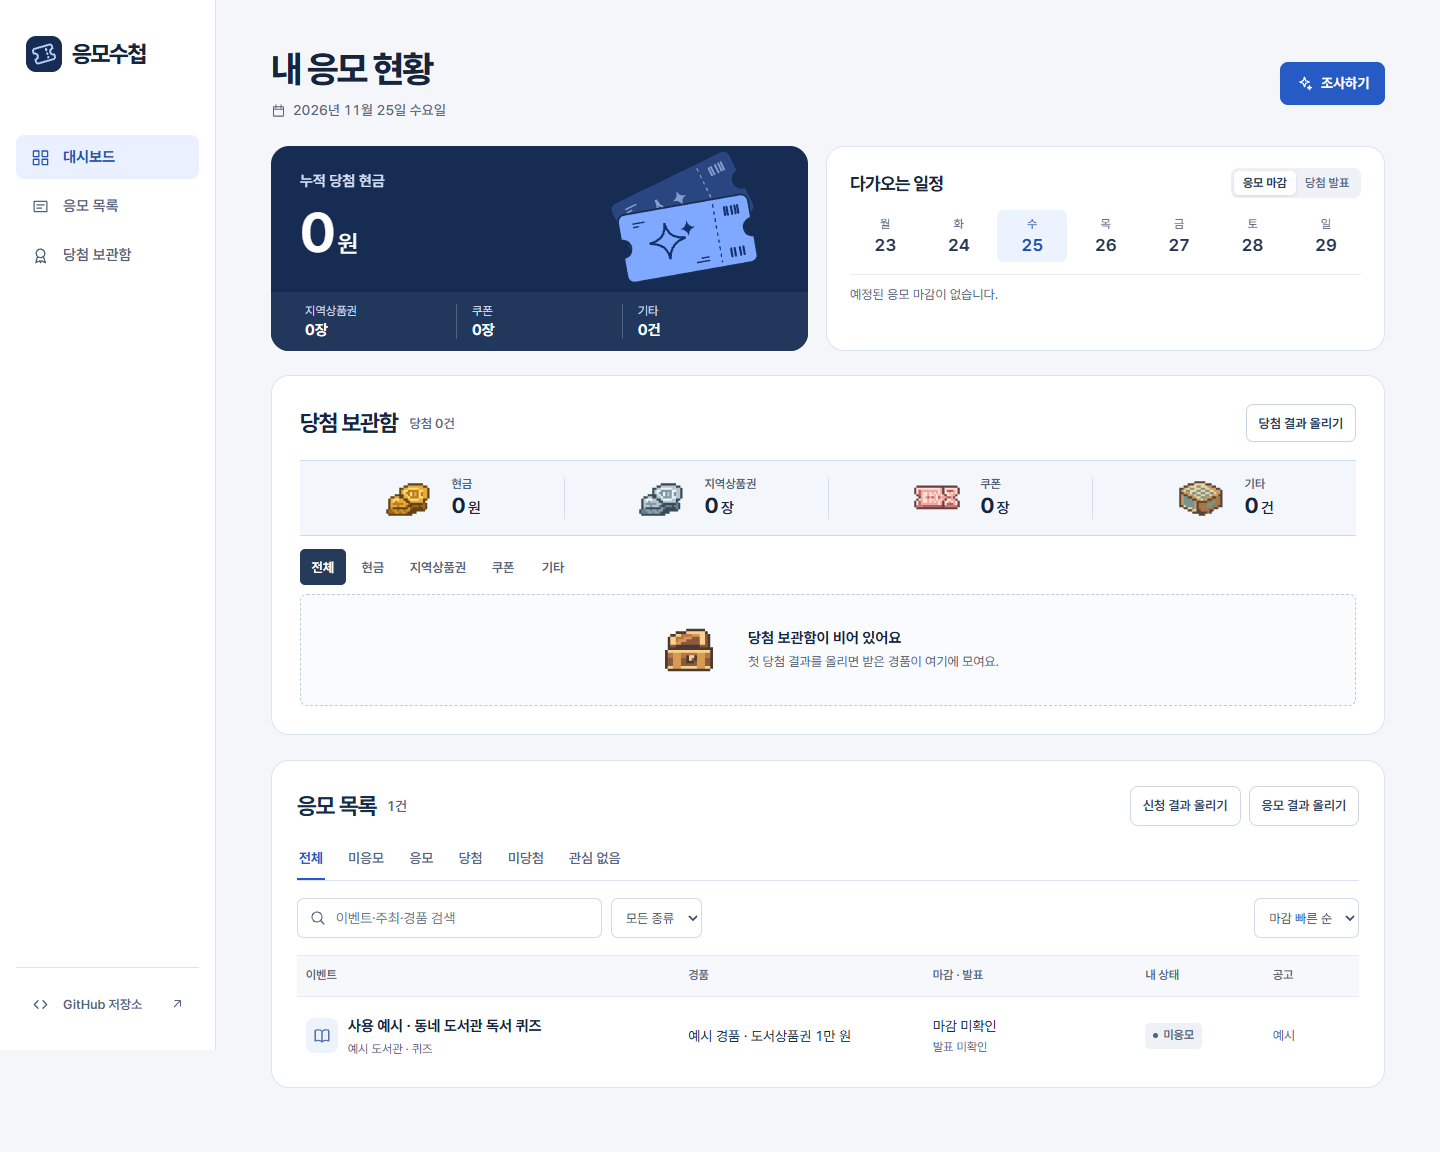
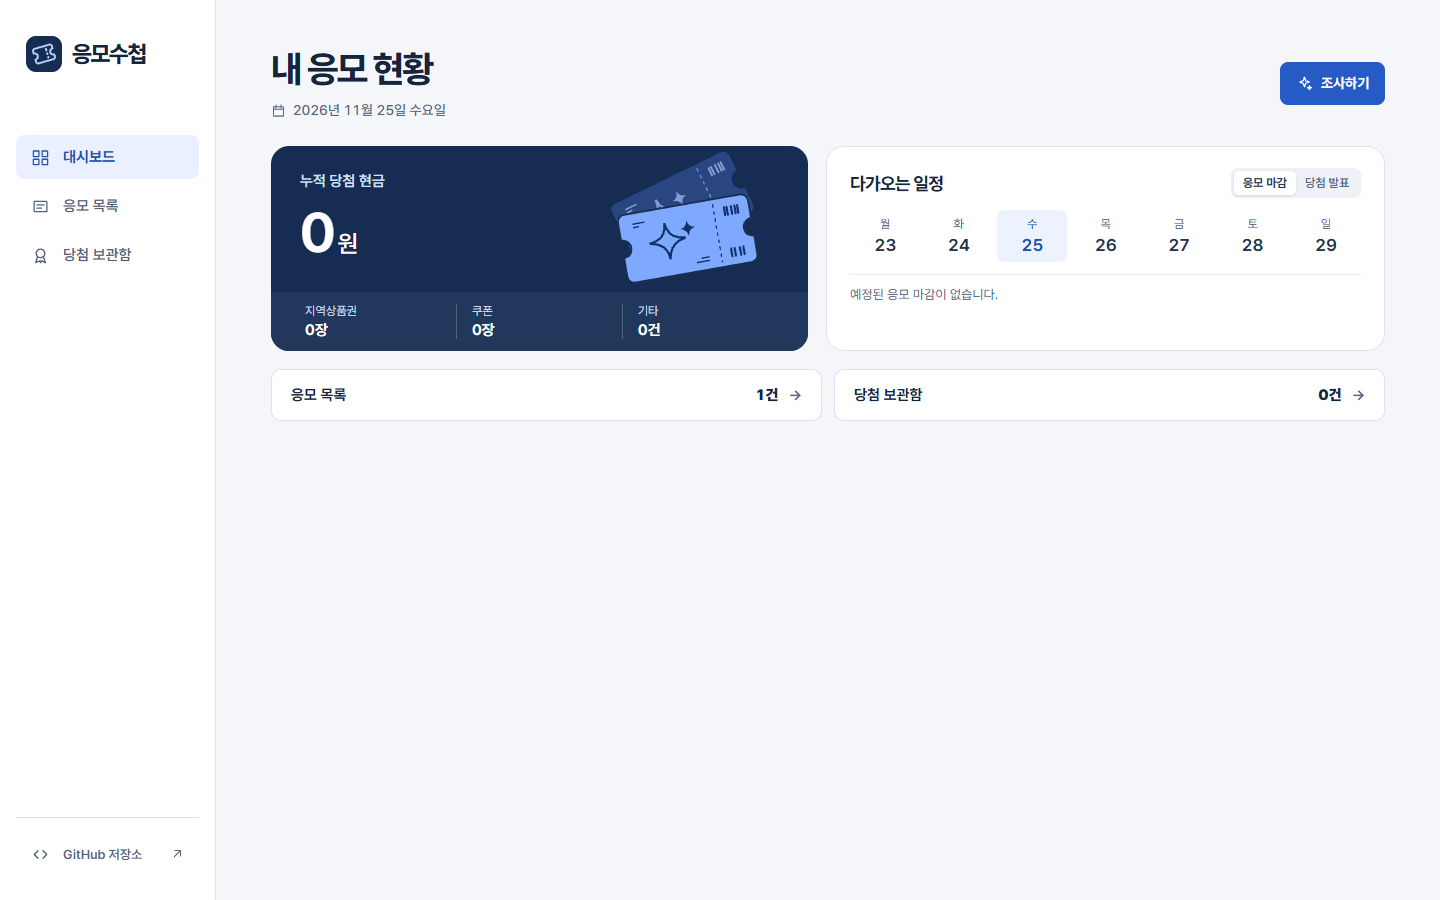
Show distinct dashboard, ledger and prize inventory views

diff --git a/web/index.html b/web/index.html
@@ -34,9 +34,9 @@
 <div class="shell">
   <aside class="sidebar" aria-label="메뉴">
     <a class="brand" href="#top" aria-label="응모수첩 홈"><span class="brand-mark"><svg aria-hidden="true" class="icon " viewBox="0 0 24 24"><use href="#icon-ticket"></use></svg></span>응모수첩</a>
-    <nav class="side-nav">
-      <a href="#top" class="current" aria-current="location"><svg aria-hidden="true" class="icon " viewBox="0 0 24 24"><use href="#icon-layout"></use></svg>대시보드</a>
-      <a href="#ledger" data-view="전체"><svg aria-hidden="true" class="icon " viewBox="0 0 24 24"><use href="#icon-list"></use></svg>응모 목록</a>
+    <nav class="side-nav" aria-label="주 화면">
+      <a href="#top" class="current" aria-current="page"><svg aria-hidden="true" class="icon " viewBox="0 0 24 24"><use href="#icon-layout"></use></svg>대시보드</a>
+      <a href="#ledger"><svg aria-hidden="true" class="icon " viewBox="0 0 24 24"><use href="#icon-list"></use></svg>응모 목록</a>
       <a href="#inventory"><svg aria-hidden="true" class="icon " viewBox="0 0 24 24"><use href="#icon-award"></use></svg>당첨 보관함</a>
     </nav>
     <div class="utilities">
@@ -44,10 +44,10 @@
     </div>
   </aside>
   <main id="top">
-    <header class="page-head"><div><h1>내 응모 현황</h1><div class="today"><svg aria-hidden="true" class="icon " viewBox="0 0 24 24"><use href="#icon-calendar"></use></svg><time id="today"></time></div></div>
+    <header class="page-head"><div><h1 id="page-title" tabindex="-1">내 응모 현황</h1><div class="today"><svg aria-hidden="true" class="icon " viewBox="0 0 24 24"><use href="#icon-calendar"></use></svg><time id="today"></time></div></div>
       <button type="button" class="action-primary" data-research aria-haspopup="dialog"><svg aria-hidden="true" class="icon " viewBox="0 0 24 24"><use href="#icon-spark"></use></svg>조사하기</button>
     </header>
-    <div class="summary">
+    <div data-page="top" data-title="내 응모 현황"><div class="summary">
       <section class="balance" aria-labelledby="balance-label">
         <div class="balance-body">
           <svg class="ticket-art" aria-hidden="true" width="230" height="175" viewBox="0 0 230 175">
@@ -90,9 +90,13 @@
         <div id="schedule" class="schedule"></div>
       </section>
     </div>
-    <section id="inventory" aria-label="당첨 보관함"></section>
-    <section id="ledger" class="ledger" aria-labelledby="list-title">
-      <div class="list-heading ledger-head"><h2 id="list-title">응모 목록 <small id="item-count"></small></h2><div class="record-actions">
+    <div class="dashboard-links">
+      <a href="#ledger"><span>응모 목록</span><strong id="dashboard-events">—</strong><span aria-hidden="true">→</span></a>
+      <a href="#inventory"><span>당첨 보관함</span><strong id="dashboard-wins">—</strong><span aria-hidden="true">→</span></a>
+    </div></div>
+    <section id="inventory" aria-label="당첨 보관함" data-page="inventory" data-title="당첨 보관함" hidden></section>
+    <section id="ledger" class="ledger" aria-labelledby="list-title" data-page="ledger" data-title="응모 목록" hidden>
+      <div class="list-heading ledger-head"><h2 id="list-title">이벤트 <small id="item-count"></small></h2><div class="record-actions">
         <button type="button" class="import-button" data-records="applications" aria-haspopup="dialog">신청 결과 올리기</button>
         <button type="button" class="import-button" data-records="results" aria-haspopup="dialog">응모 결과 올리기</button>
       </div></div>

diff --git a/web/app.js b/web/app.js
@@ -110,6 +110,8 @@ function renderSchedule() {
 }
 function renderSummary() {
   const won = state.items.filter(item => statusOf(item) === '당첨');
+  el('dashboard-events').textContent = formatMoney.format(state.items.filter(item => statusOf(item) !== '관심 없음').length) + '건';
+  el('dashboard-wins').textContent = formatMoney.format(won.length) + '건';
   const cash = won.reduce((sum, entry) => sum + Number(entry.award_cash || 0), 0);
   const counts = {'지역상품권':0, '쿠폰':0, '기타':0};
   let unclassified = 0;
@@ -204,16 +206,25 @@ function renderRows() {
     } else openResearch();
   };
 }
-function selectTab(value, section = 'ledger') {
+function selectTab(value) {
   tab = value;
   document.querySelectorAll('#status-tabs button').forEach(button => button.setAttribute('aria-pressed', String(button.dataset.tab === tab)));
+  renderRows();
+}
+function showPage(focusHeading = false) {
+  const panes = [...document.querySelectorAll('main > [data-page]')];
+  const active = panes.find(pane => pane.dataset.page === location.hash.slice(1)) || panes[0];
+  for (const pane of panes) pane.hidden = pane !== active;
   document.querySelectorAll('.side-nav a').forEach(anchor => {
-    const current = anchor.hash === '#' + section;
+    const current = anchor.hash.slice(1) === active.dataset.page;
     anchor.classList.toggle('current', current);
-    if (current) anchor.setAttribute('aria-current', 'location');
+    if (current) anchor.setAttribute('aria-current', 'page');
     else anchor.removeAttribute('aria-current');
   });
-  renderRows();
+  el('page-title').textContent = active.dataset.title;
+  document.title = active.dataset.title + ' · 응모수첩';
+  if (focusHeading) el('page-title').focus({preventScroll:true});
+  window.scrollTo({top:0, behavior:'instant'});
 }
 function addFact(key, value) {
   if (!value) return;
@@ -460,11 +471,16 @@ el('add-voucher').addEventListener('click', () => addVoucherRow().focus());
 for (const button of document.querySelectorAll('[data-records]')) {
   button.addEventListener('click', () => window.GiveawayRecords.open(button.dataset.records));
 }
-document.querySelectorAll('.brand, .side-nav a').forEach(anchor => anchor.addEventListener('click', () => {
-  el('search').value = '';
-  el('category').value = '';
-  selectTab(anchor.dataset.view || '전체', anchor.hash.slice(1));
-}));
+for (const anchor of document.querySelectorAll('.brand, .side-nav a, .dashboard-links a')) {
+  anchor.addEventListener('click', event => {
+    if (event.button !== 0 || event.altKey || event.ctrlKey || event.metaKey || event.shiftKey) return;
+    event.preventDefault();
+    if (location.hash !== anchor.hash) history.pushState(null, '', anchor.hash);
+    showPage(true);
+  });
+}
+window.addEventListener('hashchange', () => showPage(true));
+showPage();
 document.addEventListener('visibilitychange', () => {
   if (!document.hidden && !document.querySelector('dialog[open]')) refresh();
 });

diff --git a/web/app.css b/web/app.css
@@ -109,6 +109,12 @@ h1 { font-size: clamp(29px,2.55vw,40px); font-weight: 755; line-height: 1.18; le
   .record-actions { gap: 5px; }
 }
 .summary { display: grid; grid-template-columns: minmax(0,.98fr) minmax(0,1.02fr); gap: 18px; align-items: stretch; }
+.dashboard-links { display:grid; grid-template-columns:repeat(auto-fit,minmax(min(210px,100%),1fr)); gap:12px; margin-top:18px; }
+.dashboard-links a { display:flex; align-items:center; gap:10px; padding:16px 19px; border:1px solid var(--line); border-radius:10px; background:white; font-weight:650; }
+.dashboard-links a:hover { border-color:#9aaccc; color:var(--blue); }
+.dashboard-links strong { margin-left:auto; font-variant-numeric:tabular-nums; }
+.dashboard-links a span:last-child { color:var(--muted); }
+main > [data-page]:not([hidden]) { margin-top:0; }
 .balance, .agenda, .ledger { border-radius: 18px; }
 .balance { display: flex; flex-direction: column; background: var(--navy); color: #fff; overflow: hidden; }
 .balance-body { flex: 1; min-height: 146px; position: relative; isolation: isolate; padding: 26px 29px 22px; }

diff --git a/web/inventory.js b/web/inventory.js
@@ -266,7 +266,7 @@
     container.classList.add('prize-inventory');
     const header = element('div', 'inv-head');
     const titleBlock = element('div', 'inv-heading');
-    const title = element('h2', '', '당첨 보관함');
+    const title = element('h2', '', '내 경품');
     view.count = element('span', 'inv-win-count');
     titleBlock.append(title, view.count);
     const action = element('button', 'inv-record', '당첨 결과 올리기');

diff --git a/app.py b/app.py
@@ -18,7 +18,7 @@ sys.path.insert(0, str(ROOT))  # Windows embedded Python starts with an isolated
 import storage
 
 DEFAULT_PORT = 18437
-APP_VERSION = "1.2.1"
+APP_VERSION = "1.2.2"
 ASSETS = {
     "/": ("index.html", "text/html; charset=utf-8"),
     "/index.html": ("index.html", "text/html; charset=utf-8"),

diff --git a/README.md b/README.md
@@ -8,6 +8,8 @@
 
 ## 내 PC에서 시작하기
 
+왼쪽 메뉴에서 **대시보드**를 열면 당첨 합계와 일정을, **응모 목록**을 열면 이벤트 검색과 응모 기록을, **당첨 보관함**을 열면 받은 경품을 볼 수 있습니다.
+
 1. 위의 **Windows용 ZIP**을 내려받아 폴더에 압축을 풉니다.
 2. **실행.cmd**를 더블클릭합니다. Windows 10·11의 64비트(x64) PC에서는 Python을 따로 설치할 필요가 없습니다.
 3. 브라우저에 열린 **사용 예시 · 동네 도서관 독서 퀴즈**를 눌러 행사 설명과 메모 칸을 살펴보세요. 목록에서 예시를 숨기려면 상태를 **관심 없음**으로 바꾸세요.
